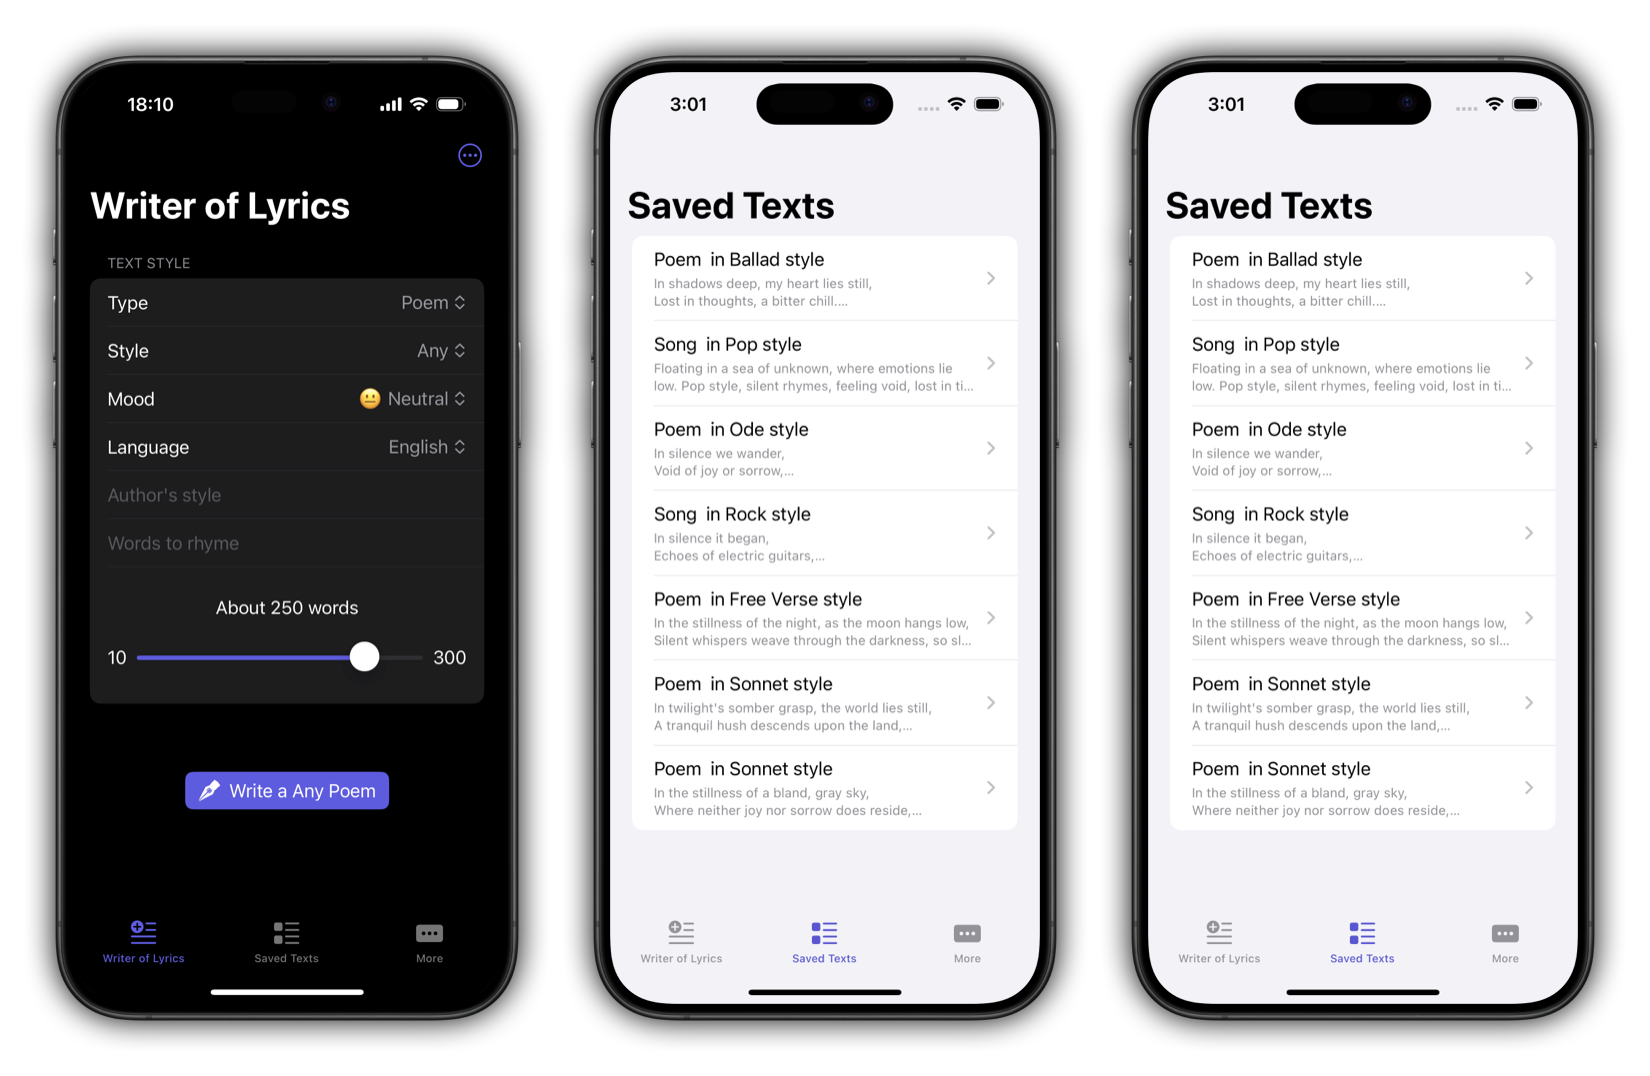
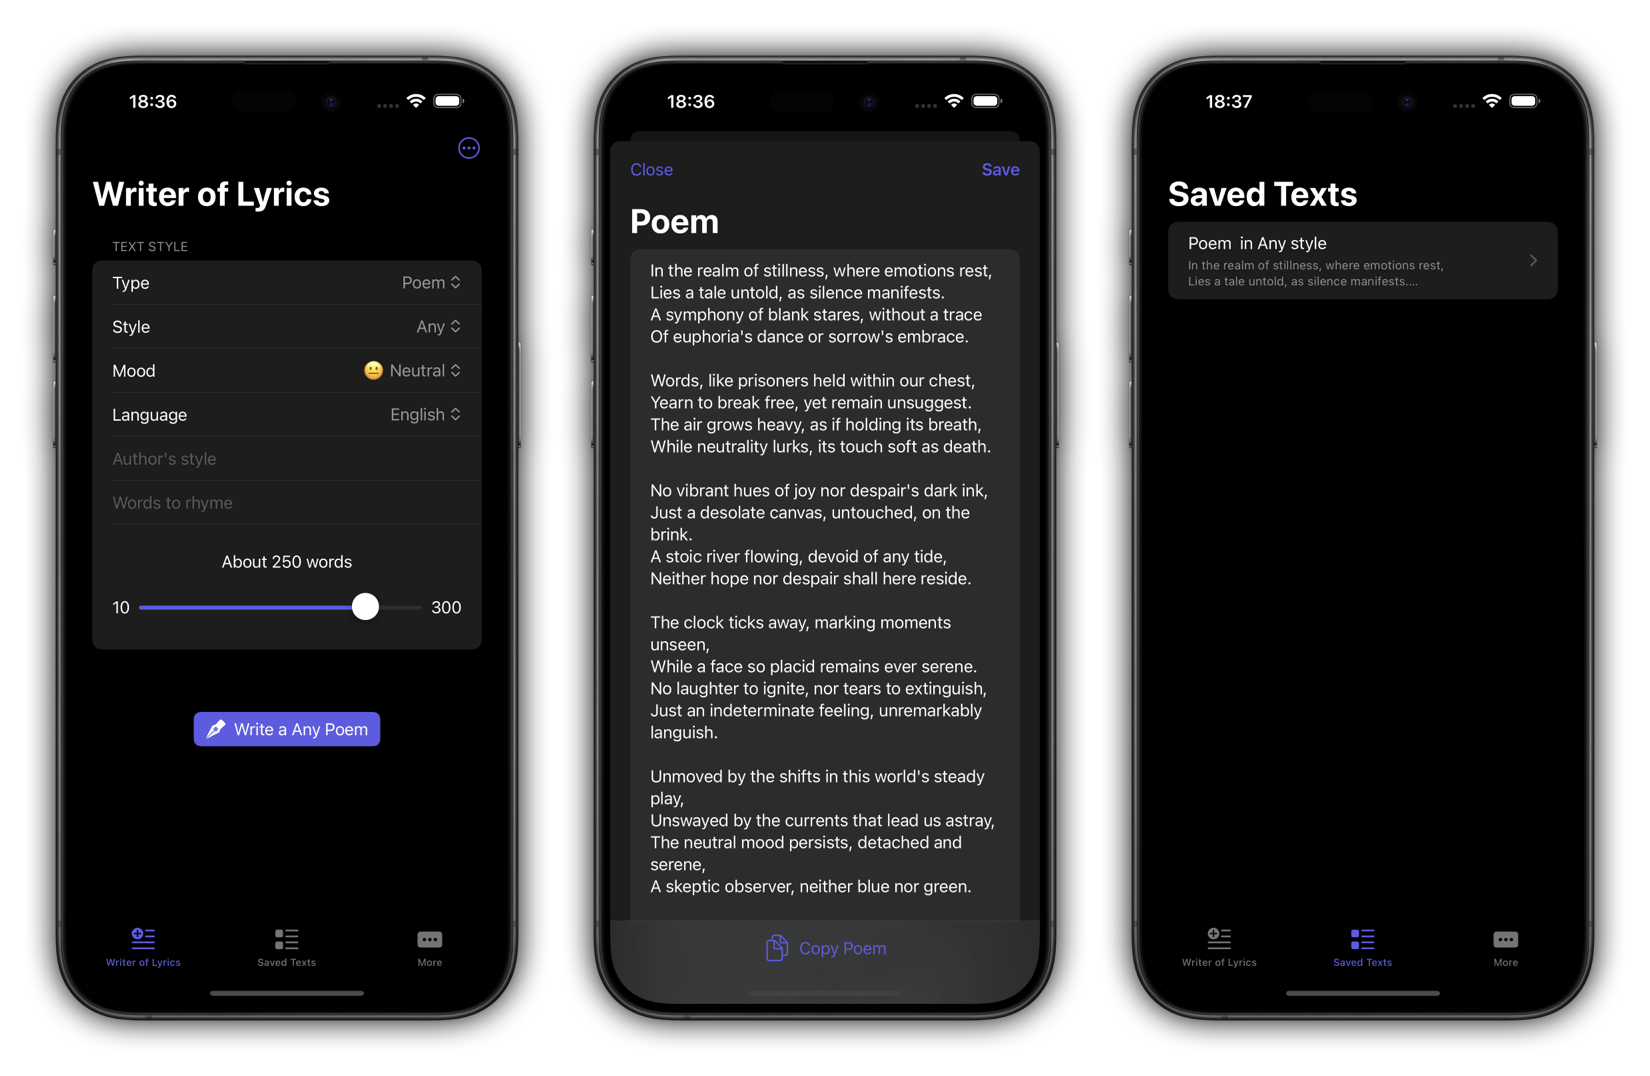
Update

diff --git a/app/aiwriter/app.html b/app/aiwriter/app.html
@@ -12,7 +12,11 @@
 
 <body>
   <div class="hero-section">
-    <img src="app/aiwriter/assets/hero_screens_group.webp" alt="AIWL app screenshots" />
+    <!--<img src="app/aiwriter/assets/hero_screens_group.webp" alt="AIWL app screenshots" />-->
+    <picture>
+        <source srcset="app/aiwriter/assets/hero_screens_group_dark.webp" alt="AIWL app screenshots" media="(prefers-color-scheme: dark)">
+        <img src="app/aiwriter/assets/hero_screens_group.webp" alt="AIWL app screenshots">
+    </picture>
     <h1>AIWL - AI Writer</h1>
     <h2>Creating lyrics is now easy</h2>
     <a href="https://itunes.apple.com/us/app/id6470300071" target="_blank">

diff --git a/index.html b/index.html
@@ -46,12 +46,10 @@
     <div class="apps-section">
         <a href="app/aiwriter/app.html">
             <!--<img src="app/aiwriter/assets/hero_screens_group.webp" alt="AIWL app screenshots" />-->
-            
             <picture>
                 <source srcset="app/aiwriter/assets/hero_screens_group_dark.webp" alt="AIWL app screenshots" media="(prefers-color-scheme: dark)">
                 <img src="app/aiwriter/assets/hero_screens_group.webp" alt="AIWL app screenshots">
             </picture>
-            
         </a>
         <a href="app/aiwriter/app.html">
             <h2>AIWL - AI Writer</h2>
